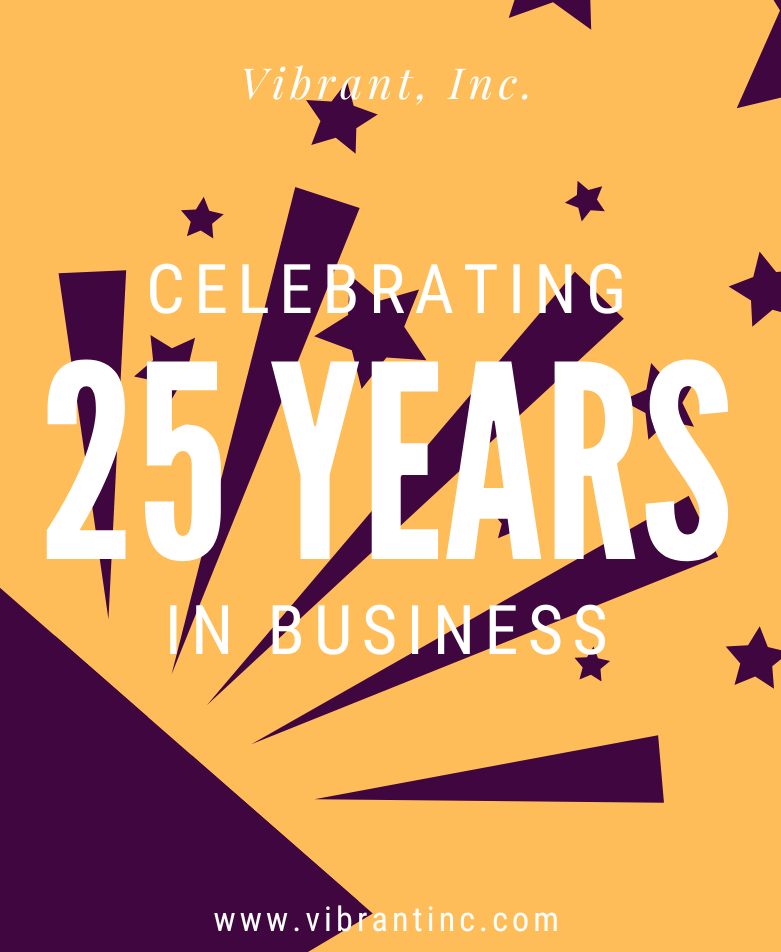
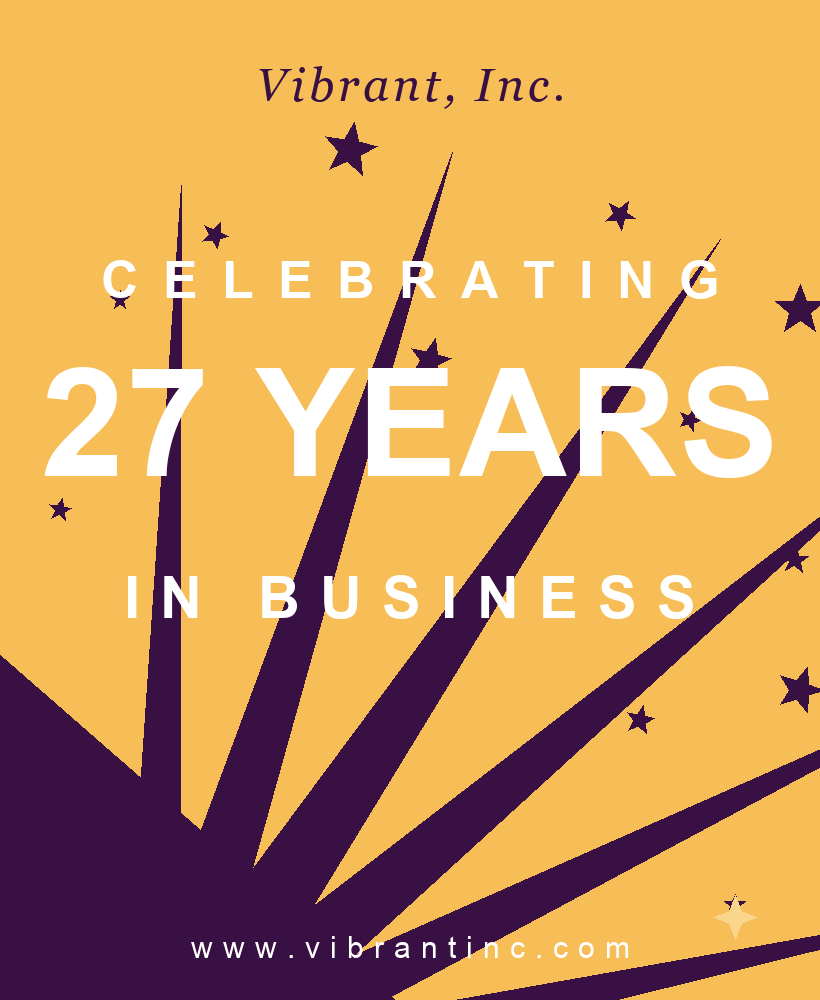
27 years everywhere: sitewide 25->27 sweep (stats, badges, titles, bios, teasers), new 27-years anniversary poster (faithful recreation of supplied design) on About and the home About section, showcase slides every 3s, Services heading on one line with intro paragraph removed

diff --git a/content/site-content.ts b/content/site-content.ts
@@ -121,7 +121,7 @@ export const leadership: Leader[] = [
     linkedin: "https://www.linkedin.com/in/sureshpreddy/",
     calendly: "", // paste the calendly.com/... URL to show the "Book a meeting" button
     bio: [
-      "With more than 25 years leading enterprise technology transformation, Suresh Reddy is the Founder and President of Vibrant Inc — helping organizations modernize through cloud, enterprise applications, DevOps, and AI-driven innovation, with complex initiatives delivered across the full systems lifecycle for Fortune 500 partners.",
+      "With more than 27 years leading enterprise technology transformation, Suresh Reddy is the Founder and President of Vibrant Inc — helping organizations modernize through cloud, enterprise applications, DevOps, and AI-driven innovation, with complex initiatives delivered across the full systems lifecycle for Fortune 500 partners.",
       "A recognized leader in cloud and DevOps transformation, Suresh has migrated enterprise workloads to AWS, built high-performing engineering teams, and established enterprise-wide governance, security, and automation for large-scale, mission-critical environments — alongside deep application expertise across Oracle E-Business Suite, PeopleSoft, and JD Edwards EnterpriseOne.",
       "ITIL Foundation Certified, he is passionate about simplifying complexity and improving operational efficiency. Under his leadership, Vibrant delivers practical, results-driven solutions that help clients thrive in an increasingly digital world."
     ],
@@ -396,7 +396,7 @@ export const serviceCards: ServiceCard[] = [
     summary:
       "One ERP practice, every major platform — SAP Implementation & Support, JD Edwards CNC Services, PeopleSoft Implementation & Support, plus Oracle E-Business Suite, Workday, and Dynamics 365. From first blueprint to the first quiet month after go-live — owned end to end.",
     longDescription:
-      "Whether you're running a complex JD Edwards environment, launching a PeopleSoft or SAP program, or stabilizing a Dynamics 365 rollout that under-delivered — Vibrant's 25-year ERP practice covers the full Oracle stack (JD Edwards EnterpriseOne, PeopleSoft, Oracle E-Business Suite), SAP (ECC / S/4HANA), Workday HCM/Financials, and Microsoft Dynamics 365. Our certified practitioners take ownership from blueprint through go-live and the stabilization weeks that follow.",
+      "Whether you're running a complex JD Edwards environment, launching a PeopleSoft or SAP program, or stabilizing a Dynamics 365 rollout that under-delivered — Vibrant's 27-year ERP practice covers the full Oracle stack (JD Edwards EnterpriseOne, PeopleSoft, Oracle E-Business Suite), SAP (ECC / S/4HANA), Workday HCM/Financials, and Microsoft Dynamics 365. Our certified practitioners take ownership from blueprint through go-live and the stabilization weeks that follow.",
     iconPath: ICONS.layers,
     metaTags: [
       "SAP Implementation & Support (ECC / S/4HANA)",
@@ -429,7 +429,7 @@ export const serviceCards: ServiceCard[] = [
     carouselOrder: 1,
     heroTagline: "SAP, JD Edwards, and PeopleSoft — modernized without missing a beat.",
     heroTeaser:
-      "Your ERP is the heart of the business — modernize it without missing a beat. Vibrant's 25-year practice spans SAP Implementation & Support, JD Edwards CNC Services, and PeopleSoft Implementation & Support, alongside Oracle EBS, Workday, and Dynamics 365.",
+      "Your ERP is the heart of the business — modernize it without missing a beat. Vibrant's 27-year practice spans SAP Implementation & Support, JD Edwards CNC Services, and PeopleSoft Implementation & Support, alongside Oracle EBS, Workday, and Dynamics 365.",
     heroHighlights: ["SAP ECC / S/4HANA · AMS", "JD Edwards CNC & EnterpriseOne", "PeopleSoft HCM / FSCM"]
   },
   {
@@ -906,7 +906,7 @@ export const serviceCards: ServiceCard[] = [
 ];
 
 export const trustBadges = [
-  { label: "25+ Years", sub: "of trusted delivery" },
+  { label: "27+ Years", sub: "of trusted delivery" },
   { label: "ERP", sub: "SAP · Oracle certified practice" },
   { label: "Oracle", sub: "Partner" },
   { label: "Microsoft", sub: "Partner Network" },
@@ -917,7 +917,7 @@ export const trustBadges = [
 export type Stat = { value: number; suffix: string; label: string; highlight?: boolean };
 
 export const stats: Stat[] = [
-  { value: 25, suffix: "+", label: "Years of innovation", highlight: true },
+  { value: 27, suffix: "+", label: "Years of innovation", highlight: true },
   { value: 200, suffix: "+", label: "Successful ERP, cloud & digital transformation engagements since 2000" },
   { value: 50, suffix: "+", label: "Enterprise clients" },
   { value: 24, suffix: "×7", label: "Managed IT support" }
@@ -978,7 +978,7 @@ export const partnerBenefits = [
 ];
 
 export const companyOverview = [
-  "Vibrant Inc opened its doors in 2000 with a simple model: put senior practitioners on every engagement and finish what we start. Twenty-five years on, clients across North America still call us when ERP, cloud, or data work has to land on time and keep running.",
+  "Vibrant Inc opened its doors in 2000 with a simple model: put senior practitioners on every engagement and finish what we start. Twenty-seven years on, clients across North America still call us when ERP, cloud, or data work has to land on time and keep running.",
   "From ERP and cloud to data, cybersecurity, and AI, our architects and engagement managers own every engagement from discovery through steady state. We're NMSDC Certified, an E-Verify Partner, and Oracle and Microsoft partners — credentials that show in how we build teams and deliver."
 ];
 
@@ -1174,7 +1174,7 @@ export const socialResponsibilityCommitments = [
   {
     title: "Building for future generations",
     body:
-      "25 years of giving back — mentoring emerging technologists, supporting STEM pathways, and making decisions today that the next generation won't have to undo."
+      "27 years of giving back — mentoring emerging technologists, supporting STEM pathways, and making decisions today that the next generation won't have to undo."
   }
 ];
 
@@ -1856,9 +1856,9 @@ export const companyFacts = aboutFacts;
 export const officialHighlights = serviceCards.map((s) => s.summary);
 export const newsItems = [
   {
-    title: "Celebrating 25 Years of Innovation and Trust",
+    title: "Celebrating 27 Years of Innovation and Trust",
     summary:
-      "Vibrant marks a quarter century of serving businesses across North America with technology and transformation solutions."
+      "Vibrant marks twenty-seven years of serving businesses across North America with technology and transformation solutions."
   }
 ];
 export const careersHighlights = [

diff --git a/components/home/about-intro.tsx b/components/home/about-intro.tsx
@@ -1,35 +1,39 @@
+import Image from "next/image";
 import Link from "next/link";
 import { Reveal } from "@/components/reveal";
+import anniversary from "@/assets/anniversary.png";
 
 /* Compact homepage About section — the full story lives on /about */
 export function AboutIntro() {
   return (
     <section className="section">
-      <div className="container grid gap-10 lg:grid-cols-2 lg:items-start">
-        <Reveal>
-          <p className="eyebrow">About Vibrant</p>
-          <h2 className="mt-3">Built on integrity since 2000.</h2>
-        </Reveal>
+      <div className="container grid gap-10 lg:grid-cols-[1fr,auto] lg:items-center">
+        <div className="max-w-2xl">
+          <Reveal>
+            <p className="eyebrow">About Vibrant</p>
+            <h2 className="mt-3">Built on integrity since 2000.</h2>
+            <p className="mt-5 text-muted leading-relaxed">
+              Founder-led for 27 years — senior practitioners modernizing ERP, cloud,
+              data, and security for companies that can&apos;t afford downtime.
+            </p>
+            <Link
+              href="/about"
+              className="mt-6 inline-flex items-center gap-1.5 text-sm font-semibold text-brand-700 hover:gap-3 transition-all"
+            >
+              More about us
+              <svg viewBox="0 0 24 24" className="h-4 w-4" fill="none" stroke="currentColor" strokeWidth="2" strokeLinecap="round" strokeLinejoin="round">
+                <path d="M5 12h14M13 5l7 7-7 7" />
+              </svg>
+            </Link>
+          </Reveal>
+        </div>
 
-        <Reveal delay={0.1}>
-          <p className="text-muted leading-relaxed">
-            Vibrant Inc has been modernizing ERP, cloud, data, and security for
-            mid-market and enterprise companies for 25 years — founder-led, senior
-            practitioners on every engagement, and a client list that keeps coming back.
-          </p>
-          <p className="mt-4 text-muted leading-relaxed">
-            From our Princeton headquarters and Hyderabad delivery center, we take
-            ownership from the first blueprint to the first quiet month after go-live.
-          </p>
-          <Link
-            href="/about"
-            className="mt-6 inline-flex items-center gap-1.5 text-sm font-semibold text-brand-700 hover:gap-3 transition-all"
-          >
-            More about us
-            <svg viewBox="0 0 24 24" className="h-4 w-4" fill="none" stroke="currentColor" strokeWidth="2" strokeLinecap="round" strokeLinejoin="round">
-              <path d="M5 12h14M13 5l7 7-7 7" />
-            </svg>
-          </Link>
+        <Reveal delay={0.1} className="mx-auto lg:mx-0">
+          <Image
+            src={anniversary}
+            alt="Vibrant Inc — Celebrating 27 Years in Business"
+            className="w-52 md:w-60 h-auto rounded-2xl shadow-card"
+          />
         </Reveal>
       </div>
     </section>

diff --git a/app/about/page.tsx b/app/about/page.tsx
@@ -25,7 +25,7 @@ export default function AboutPage() {
     <>
       <PageHero
         eyebrow="About Vibrant"
-        title="Built on integrity: 25 years of delivering on our promises."
+        title="Built on integrity: 27 years of delivering on our promises."
         description="Vibrant Inc modernizes ERP, cloud, and data for companies that can't afford downtime. Founder-led since 2000, senior practitioners on every engagement, and a client list that keeps coming back."
         crumbs={[{ label: "Home", href: "/" }, { label: "About" }]}
       />
@@ -34,7 +34,7 @@ export default function AboutPage() {
         <div className="container grid gap-12 lg:grid-cols-2 lg:items-start">
           <div>
             <p className="eyebrow">Who we are</p>
-            <h2 className="mt-3">A quarter century of practical execution.</h2>
+            <h2 className="mt-3">Twenty-seven years of practical execution.</h2>
             <div className="mt-6 space-y-4">
               {companyOverview.map((p, i) => (
                 <p key={i} className="text-muted">{p}</p>
@@ -47,12 +47,12 @@ export default function AboutPage() {
             </blockquote>
           </div>
 
-          {/* Right: one compact card — small 25-year graphic + key facts */}
+          {/* Right: one compact card — small 27-year graphic + key facts */}
           <div className="card p-7">
             <div className="mx-auto overflow-hidden rounded-xl" style={{ maxWidth: 180 }}>
               <Image
                 src={anniversary}
-                alt="Vibrant Inc — Celebrating 25 Years in Business"
+                alt="Vibrant Inc — Celebrating 27 Years in Business"
                 width={780}
                 height={960}
                 className="w-full h-auto object-contain"
@@ -157,7 +157,7 @@ export default function AboutPage() {
             <p className="eyebrow">Ready to talk</p>
             <h2 className="mt-3">A conversation, not a pitch.</h2>
             <p className="mt-5 text-muted">
-              Tell us where you want to be in 12 months. We&apos;ll help you get there with senior practitioners and a 25-year delivery track record.
+              Tell us where you want to be in 12 months. We&apos;ll help you get there with senior practitioners and a 27-year delivery track record.
             </p>
             <div className="mt-8 flex flex-wrap gap-3">
               <Link href="/contact" className="btn-primary">Schedule a Call</Link>

diff --git a/components/home/services-grid.tsx b/components/home/services-grid.tsx
@@ -28,18 +28,13 @@ export function ServicesGrid() {
       <div className="container">
 
         {/* Section header — rises in once on scroll */}
-        <Reveal className="max-w-2xl">
+        <Reveal>
           <p className="eyebrow">What we do</p>
-          <h2 className="mt-3">Seven Capabilities. One Vibrant Partner.</h2>
-          <p className="mt-4 text-muted">
-            From ERP and cloud to cybersecurity, data, automation, and AI — seven capability
-            pillars covering the full enterprise technology stack, delivered by senior
-            practitioners who&apos;ve been doing this since 2000.
-          </p>
+          <h2 className="mt-3 lg:whitespace-nowrap">Seven Capabilities. One Vibrant Partner.</h2>
         </Reveal>
 
         {/* Cards — cascade in */}
-        <div className="mt-14 grid gap-6 sm:grid-cols-2 md:grid-cols-3 lg:grid-cols-4">
+        <div className="mt-10 grid gap-6 sm:grid-cols-2 md:grid-cols-3 lg:grid-cols-4">
           {gridServices.map((service, i) => (
             <motion.div
               key={service.slug}

diff --git a/app/resources/page.tsx b/app/resources/page.tsx
@@ -7,7 +7,7 @@ import { insights, resourceGuides } from "@/content/site-content";
 export const metadata: Metadata = pageMeta({
   title: "Resources",
   description:
-    "White papers, migration guides, readiness checklists, an SAP S/4HANA cost calculator, and insights from 25+ years of ERP, cloud, and AI delivery.",
+    "White papers, migration guides, readiness checklists, an SAP S/4HANA cost calculator, and insights from 27+ years of ERP, cloud, and AI delivery.",
   path: "/resources"
 });
 
@@ -23,7 +23,7 @@ export default function ResourcesPage() {
     <>
       <PageHero
         eyebrow="Resources"
-        title="Guides, tools, and insights from 25+ years of delivery."
+        title="Guides, tools, and insights from 27+ years of delivery."
         description="The same frameworks and checklists we use on real engagements — free to read, built to be used. No gate, no email wall."
         crumbs={[{ label: "Home", href: "/" }, { label: "Resources" }]}
       />

diff --git a/app/services/page.tsx b/app/services/page.tsx
@@ -19,7 +19,7 @@ export default function ServicesPage() {
       <PageHero
         eyebrow="Services"
         title="The full enterprise technology stack — under one partner."
-        description="Seven capability pillars — with full SAP depth under one roof. From ERP and cloud modernization to cybersecurity, data, automation, and AI, delivered by certified practitioners with 25+ years of trusted delivery."
+        description="Seven capability pillars — with full SAP depth under one roof. From ERP and cloud modernization to cybersecurity, data, automation, and AI, delivered by certified practitioners with 27+ years of trusted delivery."
         crumbs={[{ label: "Home", href: "/" }, { label: "Services" }]}
       />
 

diff --git a/app/team/page.tsx b/app/team/page.tsx
@@ -118,7 +118,7 @@ export default function TeamPage() {
       <PageHero
         eyebrow="Leadership"
         title="Senior architects. Founder-led delivery."
-        description="Every Vibrant engagement is led by people who've done the work themselves — a founder with 25+ years in enterprise transformation and a bench of principal architects across ERP, cloud, SAP, cybersecurity, and AI."
+        description="Every Vibrant engagement is led by people who've done the work themselves — a founder with 27+ years in enterprise transformation and a bench of principal architects across ERP, cloud, SAP, cybersecurity, and AI."
         crumbs={[{ label: "Home", href: "/" }, { label: "Leadership" }]}
       />
 

diff --git a/components/home/stats-band.tsx b/components/home/stats-band.tsx
@@ -52,7 +52,7 @@ export function StatsBand() {
                   </div>
                   <p className="mt-2 text-sm text-white/65">{s.label}</p>
                   <span className="mt-3 inline-flex items-center gap-2 rounded-full border border-brand-400/45 bg-brand-600/15 px-3 py-1 text-[10px] font-bold uppercase tracking-[0.18em] text-brand-400">
-                    Est. 2000 · Celebrating 25+ Years
+                    Est. 2000 · Celebrating 27+ Years
                   </span>
                 </>
               ) : (

diff --git a/components/home/service-showcase.tsx b/components/home/service-showcase.tsx
@@ -24,7 +24,7 @@ const IMAGES: Record<string, StaticImageData> = {
   "managed-it":          imgMIT
 };
 
-const INTERVAL = 5000;
+const INTERVAL = 3000;
 
 /* The flagship slot of the What-we-do grid: an auto-sliding showcase that
    rotates through the seven pillars (ERP first). Pauses on hover/focus and
